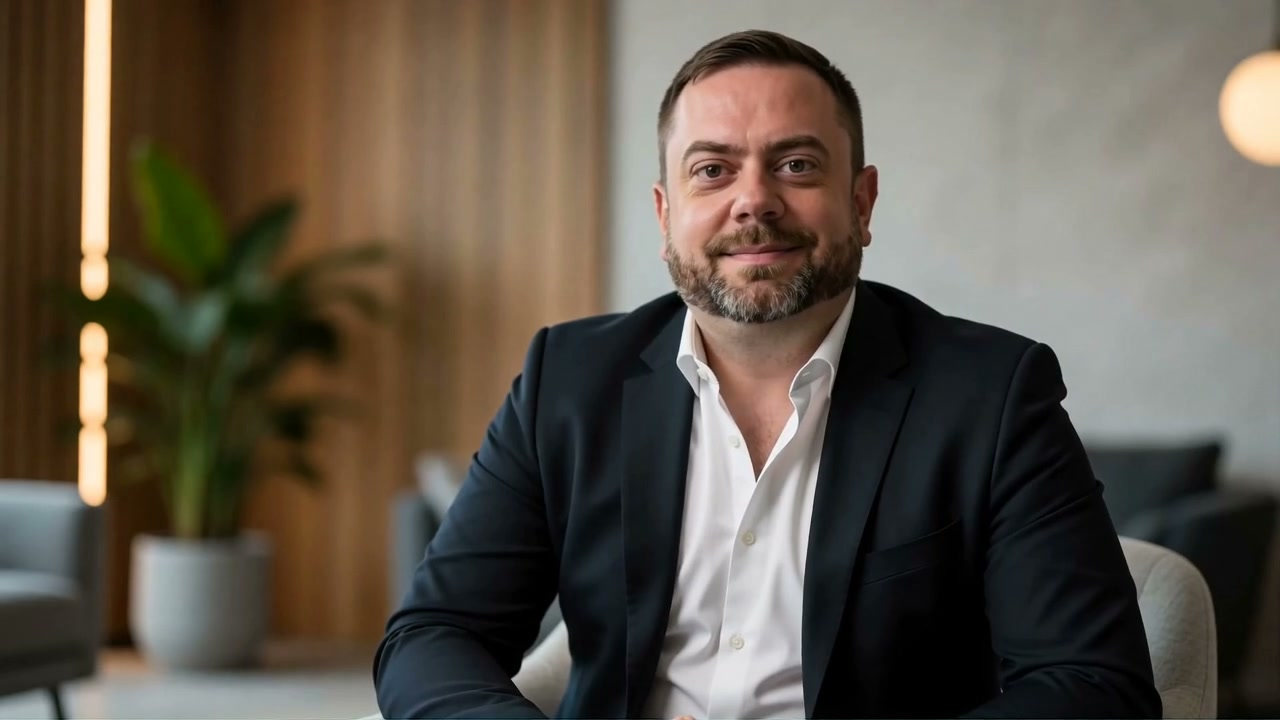
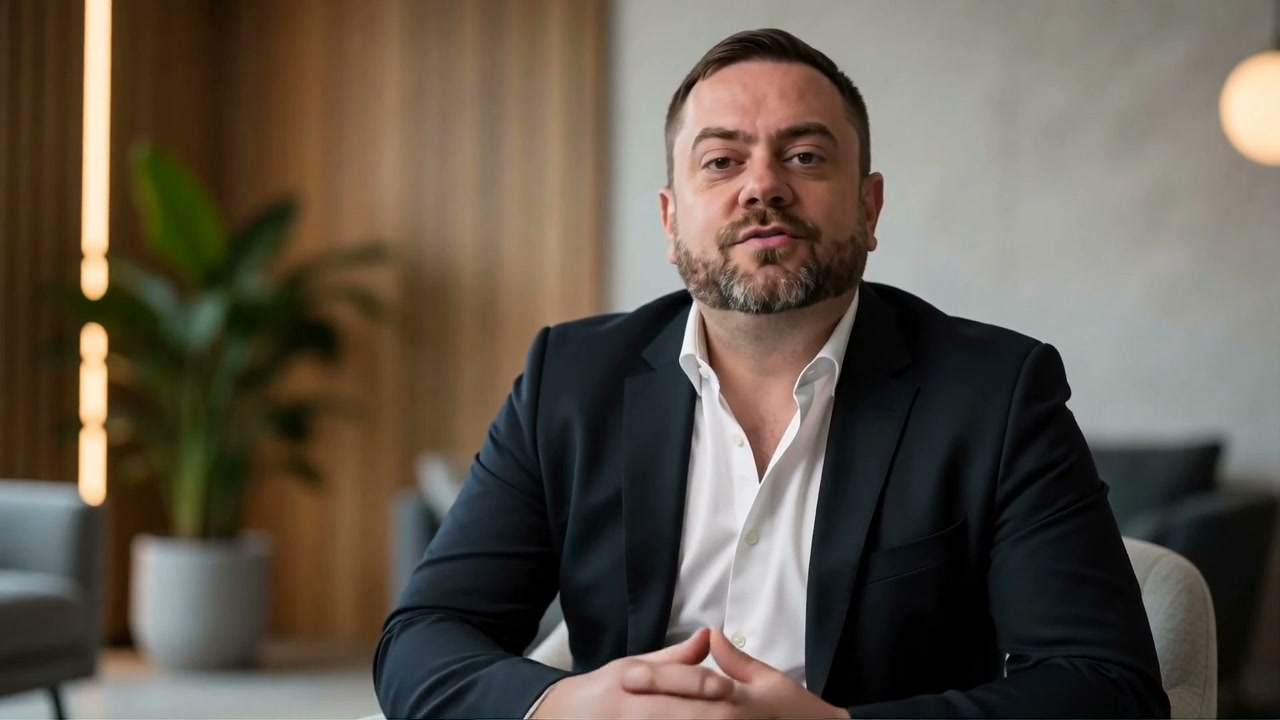
Add founder credentials; protect video openings; refresh founder/feature clips
- About "Meet the founder": add a credentials chip row (MSW, doctorate in
  naturopathic medicine, certified medication administration trainer, hospice &
  palliative care administrator, diabetic educator, nationally certified guardian).
- Founder narration now opens with those credentials and a short lead-in so
  HeyGen doesn't clip the first words; re-rendered.
- Feature narration gets the same lead-in; re-rendered. ("rasp" is spoken as a
  word; the visible page copy keeps the "RASP" acronym.)

Claude-Session: https://claude.ai/code/session_01Qer2J372KpfV2g1PyE1WXg

diff --git a/artifacts/caremetric-carebase/src/pages/marketing/About.tsx b/artifacts/caremetric-carebase/src/pages/marketing/About.tsx
@@ -35,6 +35,15 @@ const FOUNDER_BIO = [
   "CareBase is the software I designed to close that gap. It handles compliance paperwork, resident care, billing and financial management, staff education, and your state documentation — so when the state surveyor walks in, you're already ready. It's the software you always hoped for, and could never find.",
 ] as const;
 
+const FOUNDER_CREDENTIALS = [
+  "MSW",
+  "Doctorate, Naturopathic Medicine",
+  "Certified Medication Administration Trainer (~10 yrs)",
+  "Certified Hospice & Palliative Care Administrator",
+  "Certified Diabetic Educator",
+  "Nationally Certified Guardian",
+] as const;
+
 const PARTNER_NOTES = [
   {
     lead: "You get:",
@@ -124,6 +133,16 @@ export default function About() {
                   Founder — CareMetric CareBase
                 </div>
               </div>
+              <ul className="flex flex-wrap gap-1.5">
+                {FOUNDER_CREDENTIALS.map((credential) => (
+                  <li
+                    key={credential}
+                    className="rounded-full bg-[#eef4fb] px-2.5 py-1 text-[11.5px] font-semibold text-[#1b4a78]"
+                  >
+                    {credential}
+                  </li>
+                ))}
+              </ul>
               {FOUNDER_BIO.map((paragraph) => (
                 <p key={paragraph} className="text-pretty text-[15px] leading-7 text-[#33465c]">
                   {paragraph}